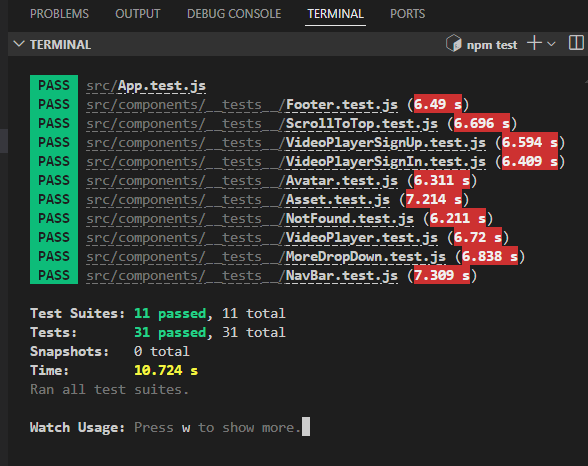
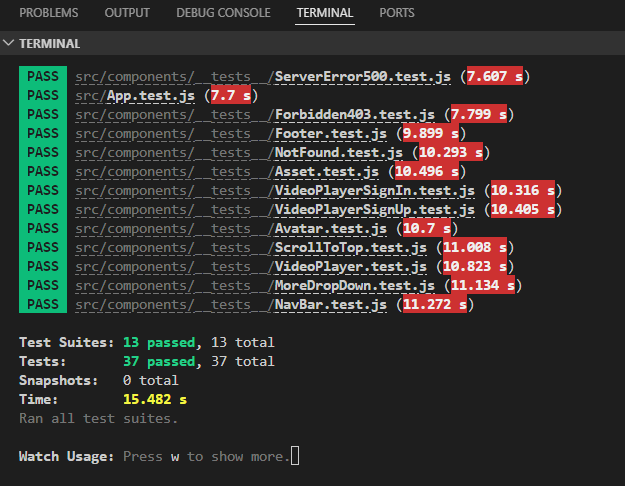
TESTING - Update test table with 403 and 500 pages

Changed region(s): [[0.0, 0.0, 0.9796, 0.8712], [0.0306, 0.9013, 0.551, 0.9614], [0.949, 0.0601, 1.0, 0.1202]]

diff --git a/TESTING.md b/TESTING.md
@@ -733,13 +733,16 @@ The following table summarizes the testing files created for various components 
 | VideoPlayer                   | [src/components/__tests__/VideoPlayer.test.js](src/components/__tests__/VideoPlayer.test.js) | PASS    |
 | VideoPlayerSignIn             | [src/components/__tests__/VideoPlayerSignIn.test.js](src/components/__tests__/VideoPlayerSignIn.test.js) | PASS    |
 | VideoPlayerSignUp             | [src/components/__tests__/VideoPlayerSignUp.test.js](src/components/__tests__/VideoPlayerSignUp.test.js) | PASS    |
+| ServerError500                | [src/components/__tests__/ServerError500.test.js](src/components/__tests__/ServerError500.test.js) | PASS    |
+| Forbidden403                  | [src/components/__tests__/Forbidden403.test.js](src/components/__tests__/Forbidden403.test.js) | PASS    |
+
 
 ### Summary of Test Results
 
-- **Total Test Suites**: 11
-- **Passed Test Suites**: 11
-- **Total Tests**: 31
-- **Passed Tests**: 31
+- **Total Test Suites**: 13
+- **Passed Test Suites**: 13
+- **Total Tests**: 37
+- **Passed Tests**: 37
 - **Total Snapshots**: 0
 
 These results demonstrate the thoroughness of our testing approach and confirm that all components are functioning as expected within the Diving Center project. The successful passing of all tests provides confidence in the reliability and stability of the application's core components.
